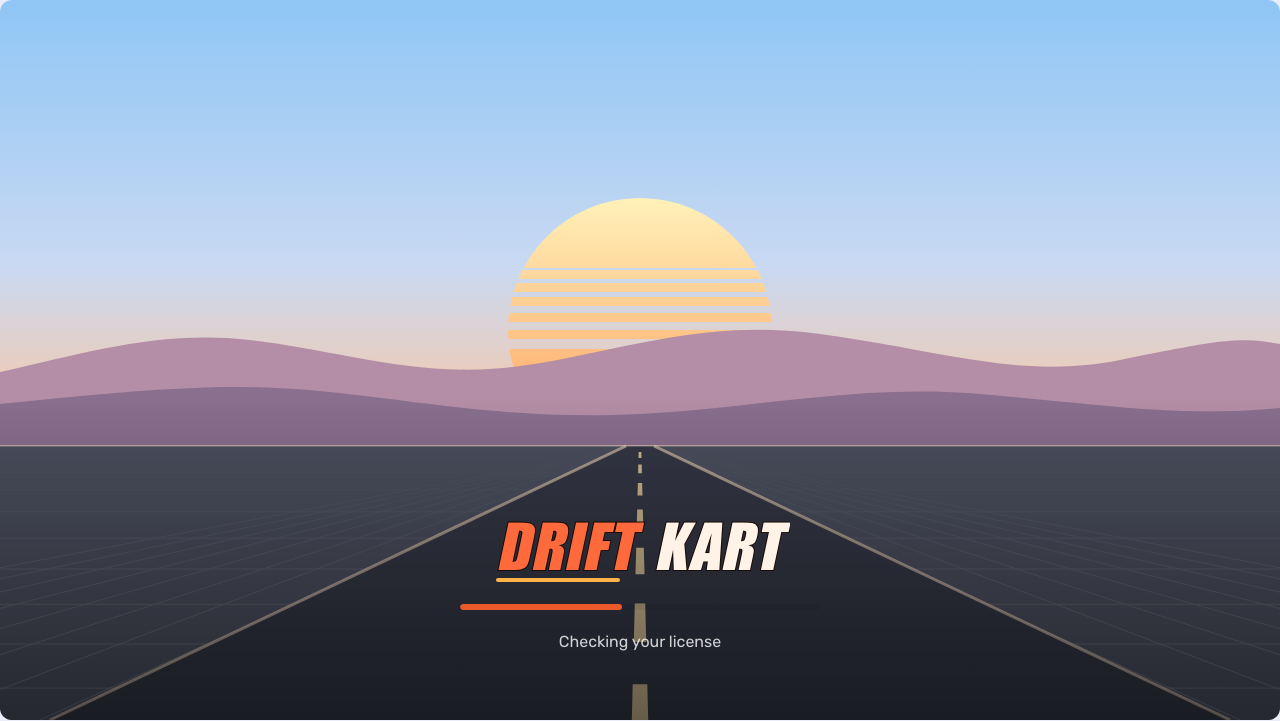
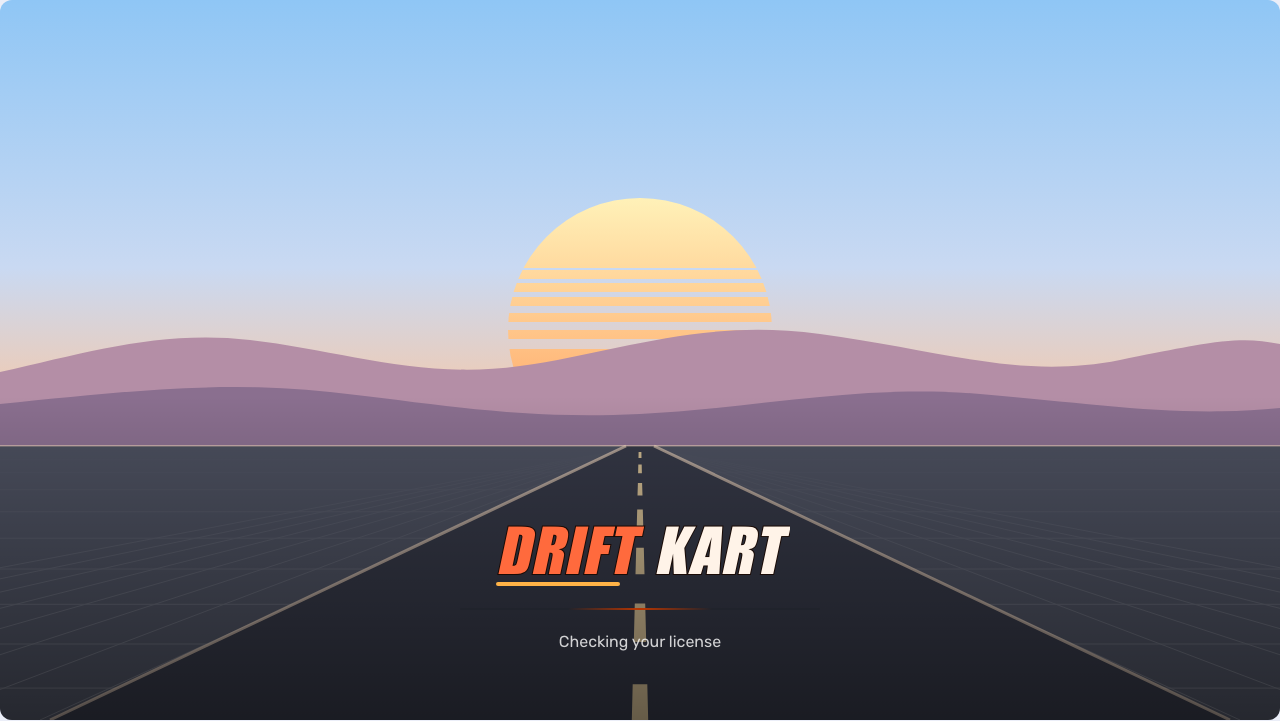
UK-59: godot board: real kit renders as Built today, UK-11 target captions, host-owns-pause note, DL7 boot shimmer

Changed region(s): [[0.3438, 0.7018, 0.625, 0.8544]]

diff --git a/docs/design/ui-kits/godot.html b/docs/design/ui-kits/godot.html
@@ -662,8 +662,42 @@
       <!-- 1. Gate -->
       <figure>
         <figcaption>
+          godot · gate · real render of the Godot kit at 1280 × 720 (tests/ui
+          scenario gate, needs-activation; no product art yet). Built today
+        </figcaption>
+        <div class="shot" data-shot="built-gate" style="background: #05070f">
+          <img
+            src="shots/godot-built-gate-dark.png"
+            width="1280"
+            height="720"
+            alt="godot · gate · real render of the Godot kit at 1280 × 720 (tests/ui scenario gate, needs-activation; no product art yet). Built today"
+            style="display: block"
+          />
+        </div>
+      </figure>
+      <figure>
+        <figcaption>
+          godot · settings · real render of the Godot kit at 1280 × 720
+          (tests/ui scenario settings, catalog). Built today
+        </figcaption>
+        <div
+          class="shot"
+          data-shot="built-settings"
+          style="background: #05070f"
+        >
+          <img
+            src="shots/godot-built-settings-dark.png"
+            width="1280"
+            height="720"
+            alt="godot · settings · real render of the Godot kit at 1280 × 720 (tests/ui scenario settings, catalog). Built today"
+            style="display: block"
+          />
+        </div>
+      </figure>
+      <figure>
+        <figcaption>
           godot · gate (title screen; B does nothing on the root, Quit only on
-          desktop builds)
+          desktop builds). UK-11 target
         </figcaption>
         <div class="shot" data-shot="gate">
           <div
@@ -710,7 +744,9 @@
       <!-- 2. Activate -->
       <figure>
         <figcaption>
-          godot · activate (focus on Activate; the field is quiet until edited)
+          godot · activate (focus on Activate; the field is quiet until edited).
+          The game owns pause: the kit never sets SceneTree.paused and emits
+          input_captured(true) while this dialog is open. UK-11 target
         </figcaption>
         <div class="shot" data-shot="activate">
           <div class="scrim"></div>
@@ -785,7 +821,7 @@
       <figure>
         <figcaption>
           godot · sign-in (device code for TV and console; the product’s vanity
-          URL)
+          URL). UK-11 target
         </figcaption>
         <div class="shot" data-shot="sign-in">
           <div class="scrim"></div>
@@ -875,7 +911,7 @@
 
       <!-- 4. Device limit -->
       <figure>
-        <figcaption>godot · device limit</figcaption>
+        <figcaption>godot · device limit. UK-11 target</figcaption>
         <div class="shot" data-shot="device-limit">
           <div class="scrim"></div>
           <div class="glass panel center" style="width: 720px; gap: 22px">
@@ -938,7 +974,7 @@
       <figure>
         <figcaption>
           godot · update during a race (toast only, bottom centre inside
-          title-safe, never over the HUD)
+          title-safe, never over the HUD). UK-11 target
         </figcaption>
         <div class="shot" data-shot="update-toast">
           <div class="hud">
@@ -980,7 +1016,7 @@
       <figure>
         <figcaption>
           godot · update on the results screen (default focus on the safe
-          action; input ignored for 250 ms)
+          action; input ignored for 250 ms). UK-11 target
         </figcaption>
         <div class="shot" data-shot="update">
           <div class="scrim"></div>
@@ -1036,7 +1072,9 @@
 
       <!-- 7. Settings: the Account tab -->
       <figure>
-        <figcaption>godot · Account tab in the game’s own menu</figcaption>
+        <figcaption>
+          godot · Account tab in the game’s own menu. UK-11 target
+        </figcaption>
         <div class="shot" data-shot="settings">
           <div class="scrim" style="background: rgb(0 0 0 / 0.5)"></div>
           <div
@@ -1115,7 +1153,9 @@
 
       <!-- 8. Steam Deck 1280 × 800 -->
       <figure>
-        <figcaption>godot · gate at 1280 × 800 (Steam Deck, 16:10)</figcaption>
+        <figcaption>
+          godot · gate at 1280 × 800 (Steam Deck, 16:10). UK-11 target
+        </figcaption>
         <div class="shot deck" data-shot="gate-deck">
           <div
             class="scrim side"
@@ -1161,8 +1201,9 @@
       <!-- 9. Boot -->
       <figure>
         <figcaption>
-          godot · boot (the game's title art, its wordmark, a determinate bar;
-          no modal)
+          godot · boot (the game's title art, its wordmark; a 2 px shimmer after
+          the grace, never a part-filled bar for a stage, DL7; no modal). UK-11
+          target
         </figcaption>
         <div class="shot" data-shot="boot">
           <div
@@ -1187,8 +1228,11 @@
             "
           >
             <span class="wm-slot"></span>
-            <div class="bar" style="width: 360px">
-              <i style="width: 45%"></i>
+            <div
+              class="bar"
+              style="width: 360px; height: 2px; position: relative"
+            >
+              <span class="k-shimmer"></span>
             </div>
             <span class="gs" style="font-size: 16px; color: #fff; opacity: 0.8"
               >Checking your license</span
@@ -1200,7 +1244,8 @@
       <!-- 10. Status: blocked -->
       <figure>
         <figcaption>
-          godot · status (blocked: the license ended; focus on Renew)
+          godot · status (blocked: the license ended; focus on Renew). UK-11
+          target
         </figcaption>
         <div class="shot" data-shot="status">
           <div class="scrim"></div>
@@ -1238,7 +1283,8 @@
       <!-- 11. Error: offline -->
       <figure>
         <figcaption>
-          godot · error (offline; play continues on the cached license)
+          godot · error (offline; play continues on the cached license). UK-11
+          target
         </figcaption>
         <div class="shot" data-shot="error">
           <div class="scrim"></div>
